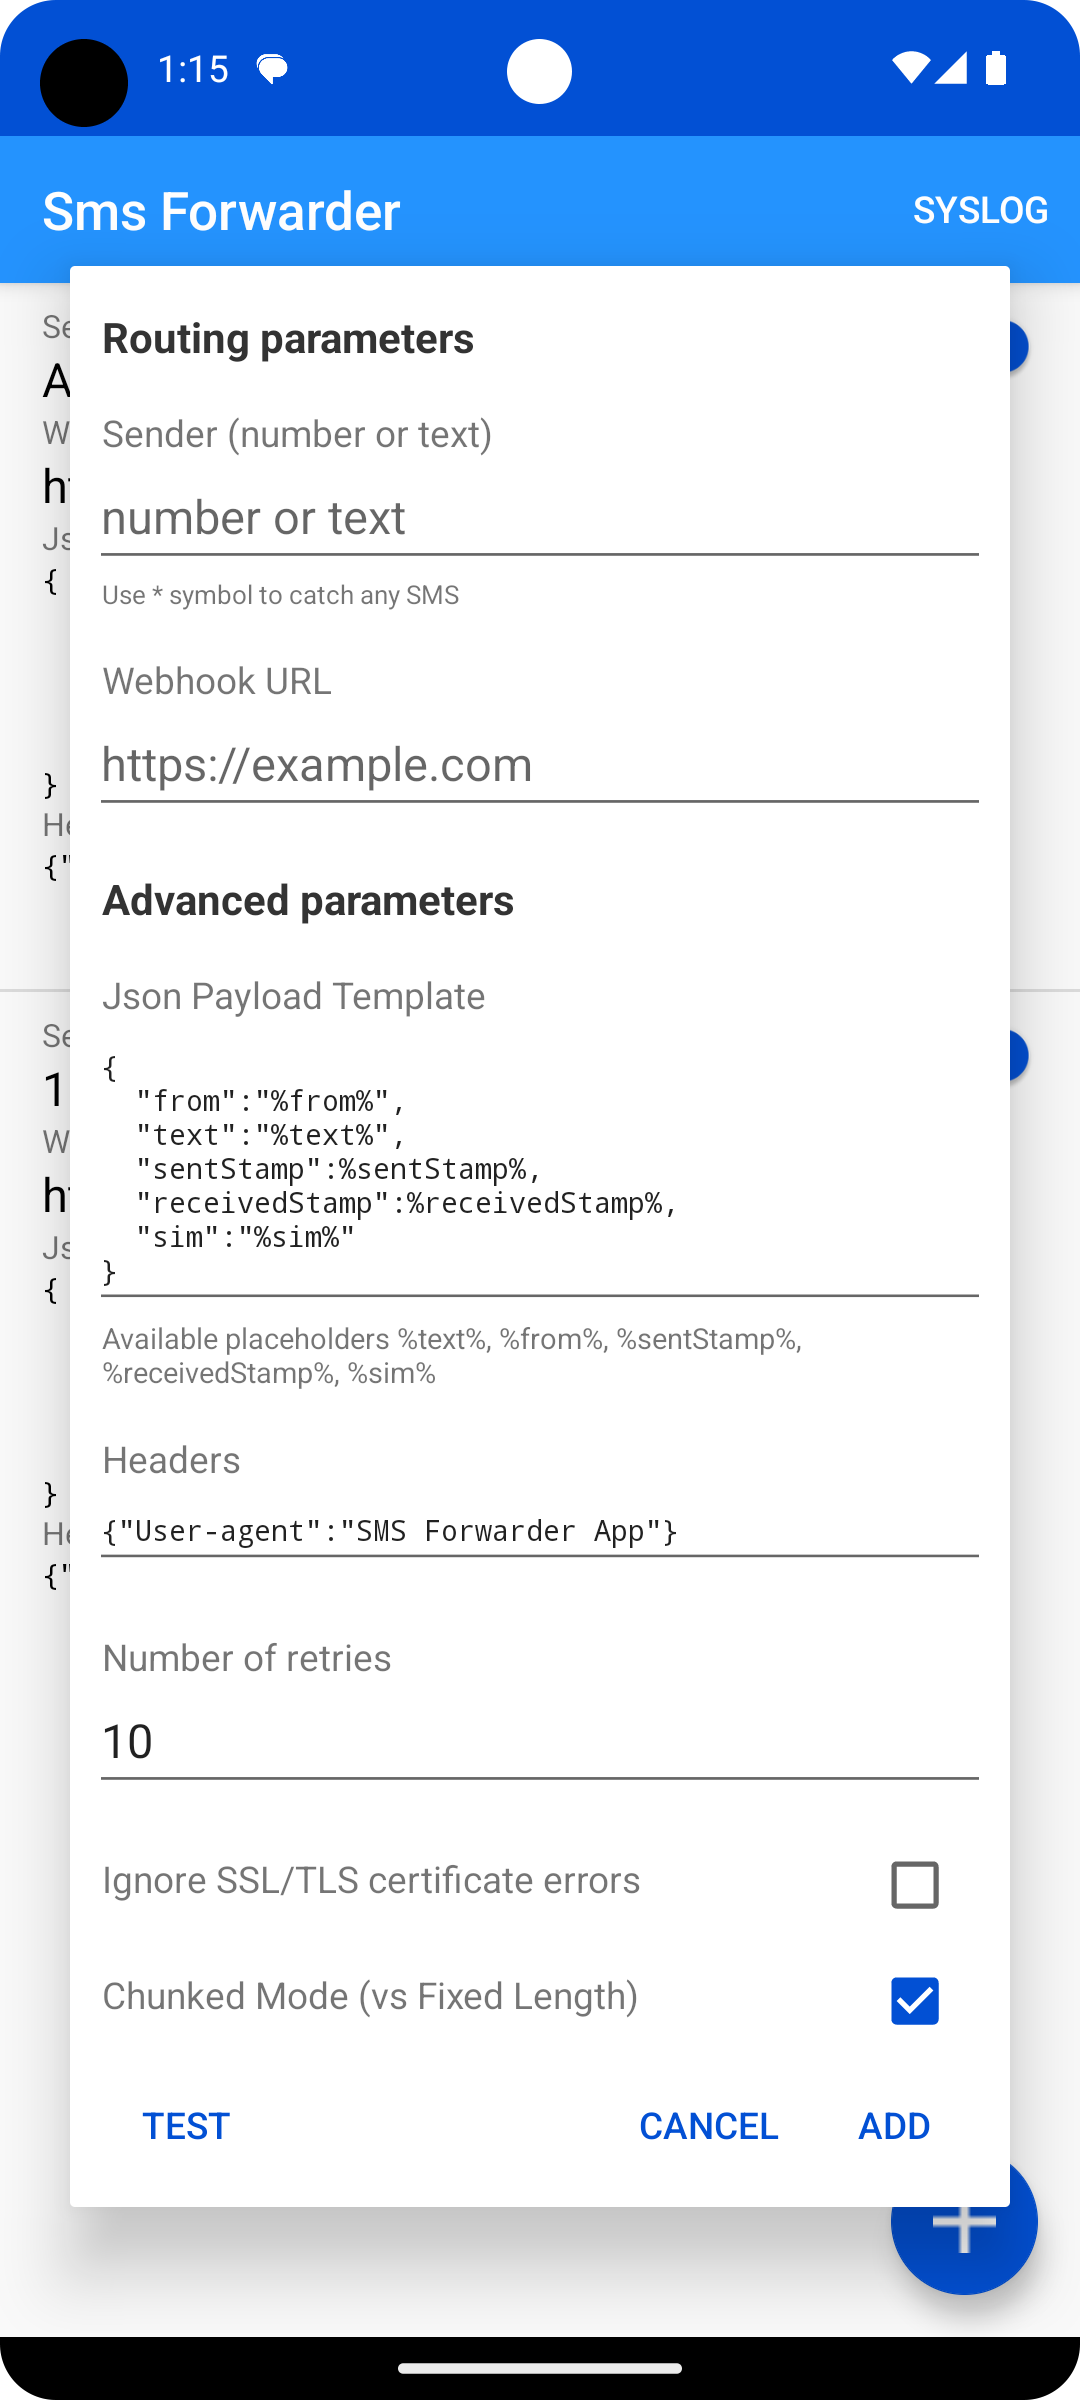
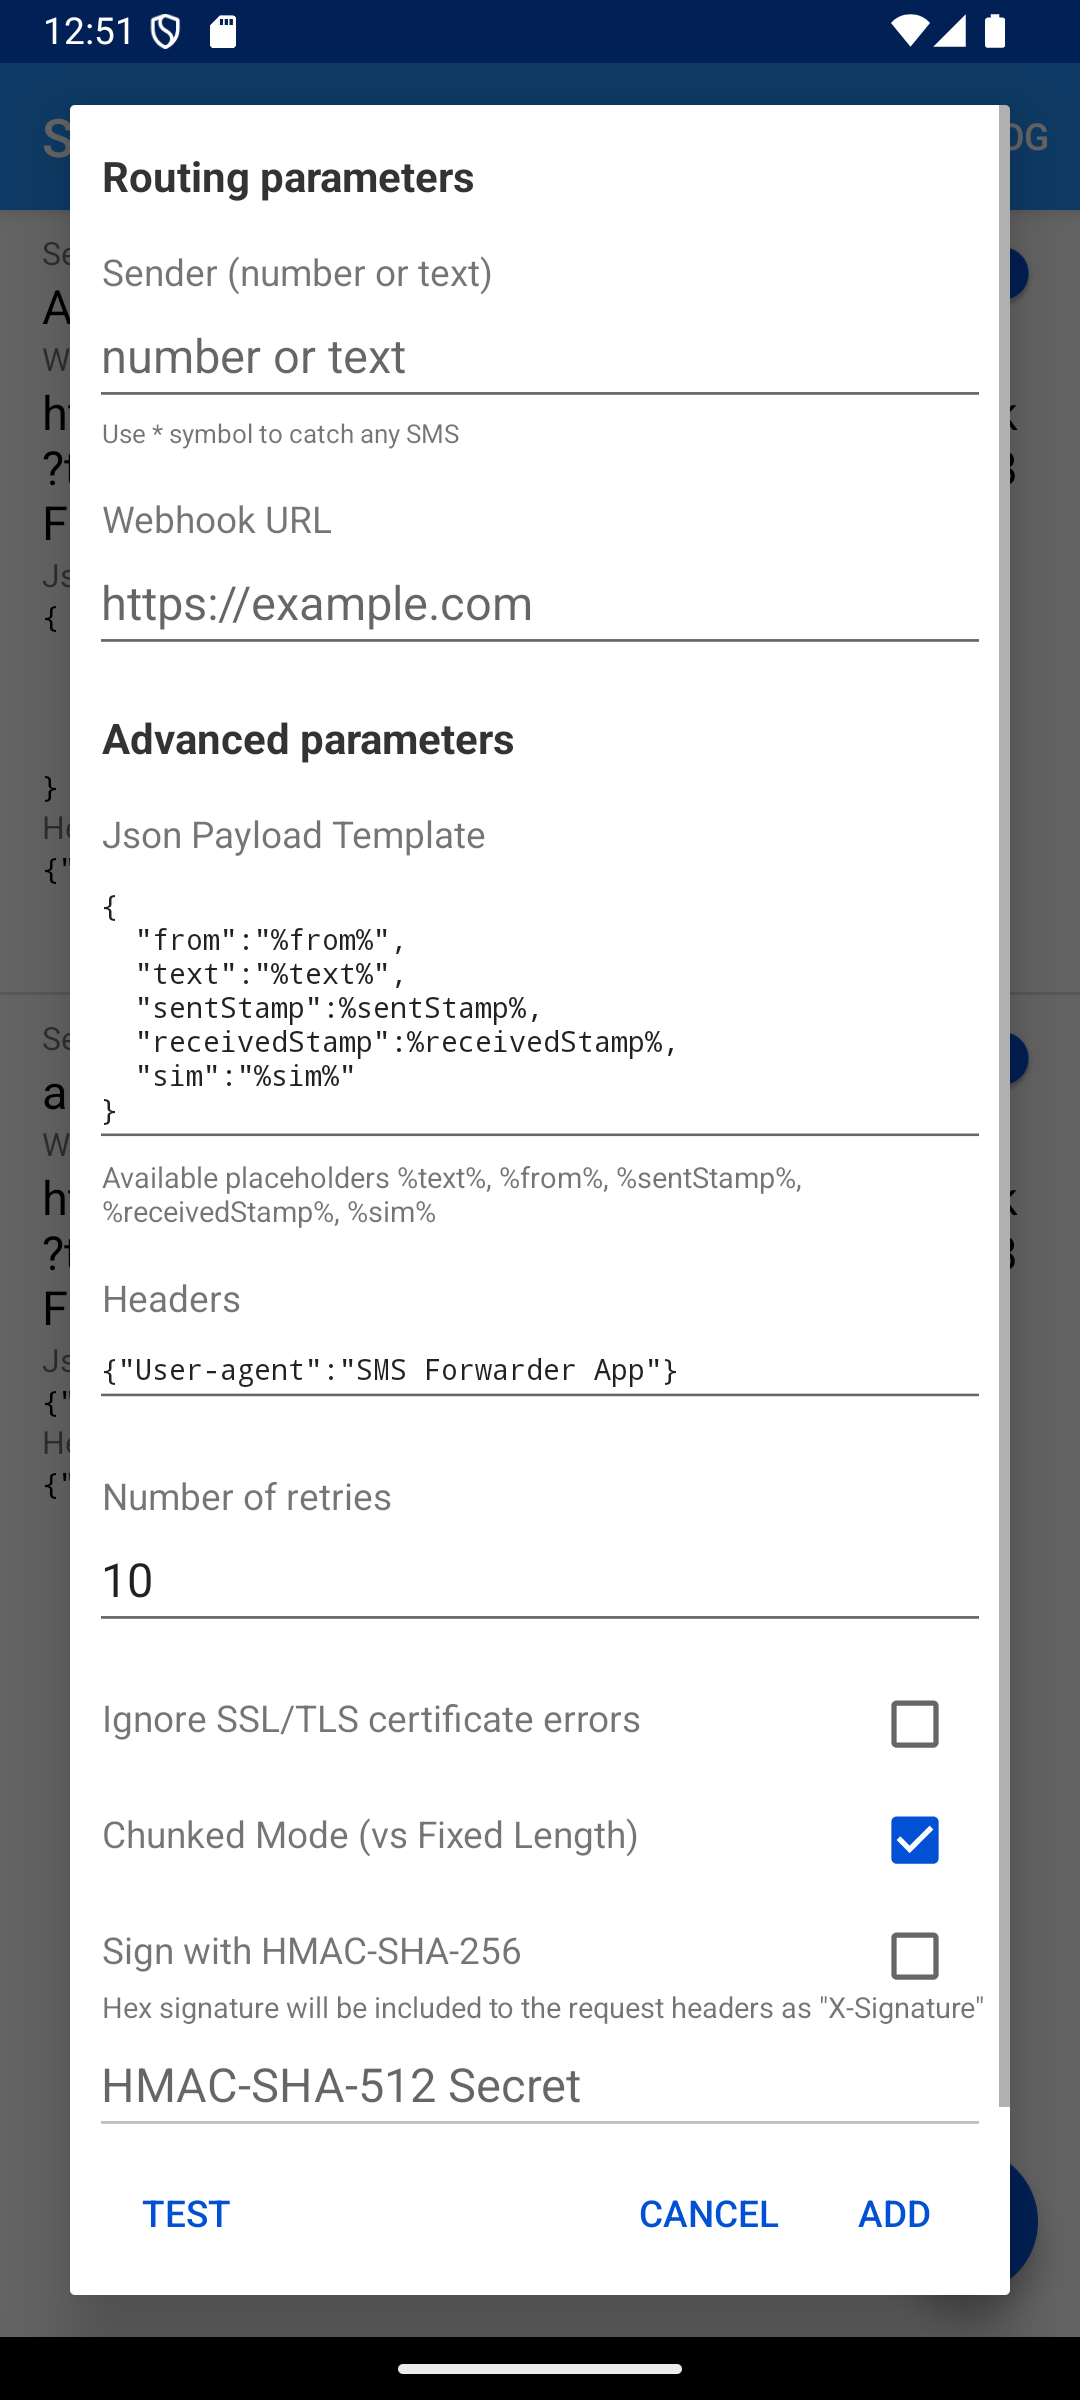
Documentation update

diff --git a/README.md b/README.md
@@ -44,6 +44,13 @@ Press the Test button to make a test request to the server.
 
 Press the Syslog button to view errors stored in the Logcat.
 
+### Optional Features
+
+#### Sign with HMAC-SHA-256
+Selecting this option will allow you to sign the request with a provided secret. The hex signature 
+is created from the request payload and the provided secret, and will be added to the request with 
+the header `X-Signature`.
+
 ### Request info
 HTTP method: POST  
 Content-type: application/json; charset=utf-8  